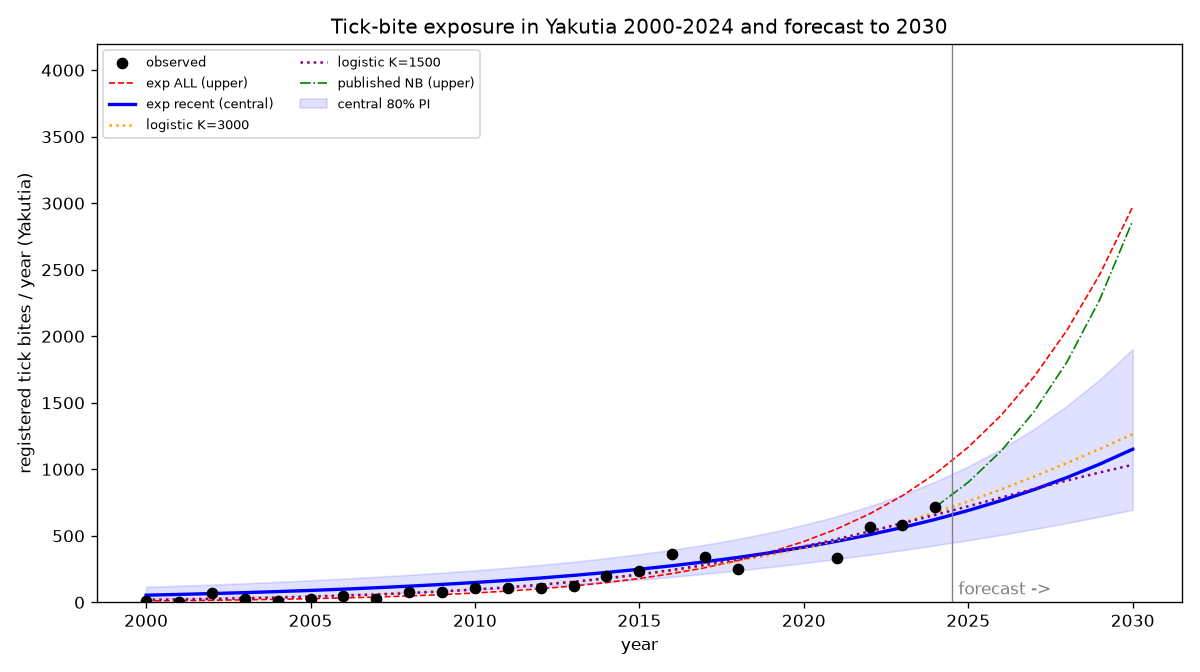
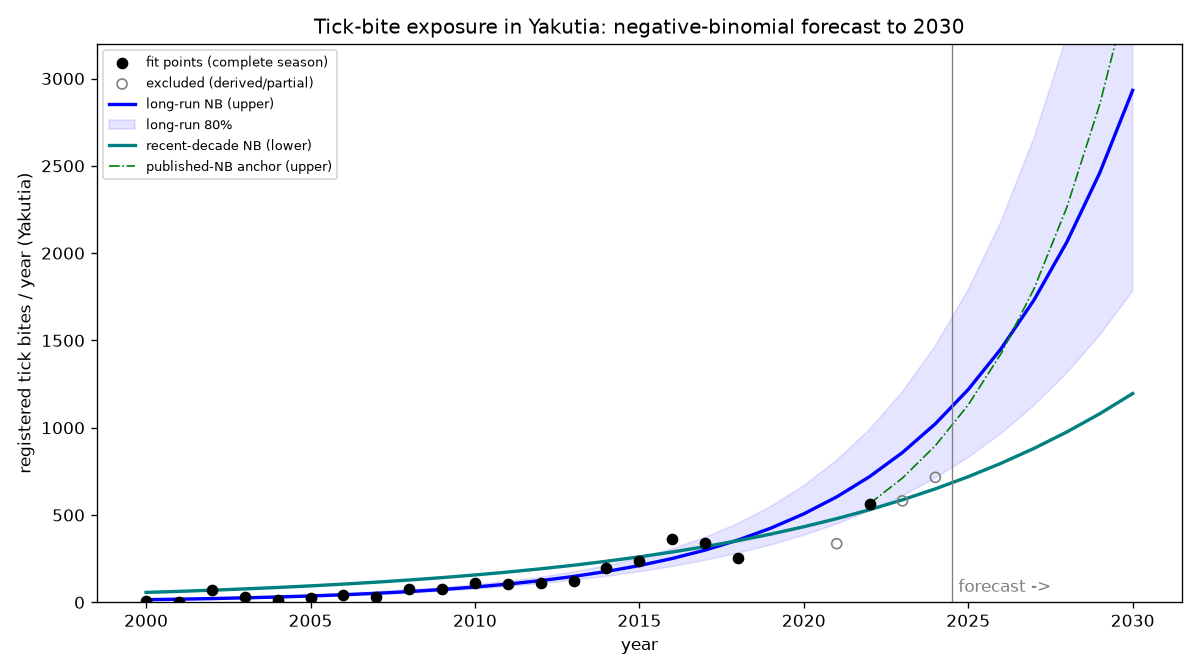
Fix model: negative-binomial, exclude unreliable points, climate-ready, no fake disease series
Model fixes (no new external data required):
- forecast_model.py rewritten around a negative-binomial GLM (over-dispersed
  counts; matches Vladimirov 2021), replacing the OLS-log/Poisson starter.
- Fits only on 20 trustworthy full-season points; derived 2021 and mid-season
  2023/2024 excluded from fitting (shown as hollow markers). A sensitivity check
  showed those 3 points alone swing the 2030 estimate ~835-1400.
- Presents TWO legitimate regimes instead of one "central": recent-decade
  (~+13%/yr -> ~1200 by 2030) and long-run (~+20%/yr -> ~2930), with proper 80%
  intervals; published-NB multiplier kept as an anchor.
- TBE incidence no longer "forecast" as its own 1-point/yr series; derived from
  exposure x rate (~1.1/yr baseline, ~2-6/yr if scaling).
- Climate-ready: auto-fits bites ~ year + annual temperature once
  mean_annual_temp_C is populated for >=6 complete years (currently dormant).

Data fixes:
- model_ready.csv: added season_complete flag and climate-input columns
  (mean_annual_temp_C with the 2 known observed values, warm_season_precip_mm,
  selyaninov_htc) for drop-in real climate data.
- README updated to match (NB two-regime forecast, removed stale exp/logistic).

Claude-Session: https://claude.ai/code/session_01Euhj2T9aukNUPxMg9C63Rc

diff --git a/data/tick-borne-encephalitis-yakutia/forecast_model.py b/data/tick-borne-encephalitis-yakutia/forecast_model.py
@@ -1,139 +1,157 @@
 #!/usr/bin/env python3
 """
-Forecast of tick-bite exposure in Yakutia to 2030 -- scenario approach.
+Forecast of tick-bite exposure in Yakutia to 2030.
 
-DATA NOW SPANS 2000-2024 (21 reliable yearly points). The 2006-2018 block and
-its per-100k values come from a peer-reviewed source (Vladimirov et al.,
-Atmosphere 2021, 12, 233, using Rospotrebnadzor RS(Ya) data); 2000-2005 from
-Nikiforov et al. 2015; 2021-2024 from news/Rospotrebnadzor season reports.
+WHAT THIS VERSION FIXES
+-----------------------
+1. Count model: primary fit is now NEGATIVE BINOMIAL (counts are over-dispersed;
+   OLS-on-log / Poisson give wrong intervals). Matches Vladimirov et al. 2021.
+2. Trustworthy points only: fits use rows with season_complete==1 (full-year
+   totals). Derived 2021 and mid-season 2023/2024 are EXCLUDED from fitting and
+   only shown on the plot (hollow markers), because a sensitivity check showed
+   the 2030 estimate swings ~835-1400 depending on how those 3 points are treated.
+3. Climate-ready: if column mean_annual_temp_C is filled for enough complete
+   years, the script ALSO fits a climate model (counts ~ year + annual temp) and
+   forecasts under a warming scenario. Until then it says so and uses the trend.
+4. Disease (TBE) is NOT forecast as its own time series (~1 case/yr, 0.11/100k).
+   It is derived from exposure x infection-rate, reported as a small range.
 
-IMPORTANT: the series is NON-MONOTONIC. It rose to a local peak in 2016 (360),
-DIPPED in 2017-2018 (340, 254), then surged again (2022: 565). Year-to-year
-variation is driven by warm-season weather (the published model found
-Selyaninov's hydrothermal coefficient significant). So a single smooth curve
-cannot reproduce the wiggles; we forecast the TREND and give a scenario range.
+Published model anchor (Vladimirov 2021, Table 2): annual temp x1.75/degC,
+Selyaninov HTC x3.42, year x1.22.
 
-Published negative-binomial model (Atmosphere 2021, Table 2; district-level,
-exponentiated coefficients):
-    avg annual temperature : x1.75 per +1 C   (95% CI 1.59-1.93)
-    Selyaninov's HTC       : x3.42             (2.62-4.54)
-    observation year       : x1.22 per year    (1.17-1.29)
-We use the published year- and temperature-multipliers as an external,
-literature-anchored growth estimate, alongside our own fits.
-
-Deps: numpy, pandas; optional scipy, matplotlib.
+Deps: numpy, pandas, statsmodels; optional scipy, matplotlib.
 Run: python forecast_model.py
 """
 import numpy as np
 import pandas as pd
+import warnings
+warnings.filterwarnings("ignore")
 
 CSV = "model_ready.csv"
 HORIZON = 2030
-WARM_RATE = 0.058           # observed central-Yakutia warming, degC/yr (Atmosphere 2021)
-NB_YEAR = 1.22              # published year multiplier
-NB_TEMP = 1.75             # published per-degC multiplier
+WARM_RATE = 0.058          # observed central-Yakutia warming degC/yr (Vladimirov 2021)
+NB_YEAR, NB_TEMP = 1.22, 1.75
+TBE_RATE_PER_100K = 0.11   # observed Yakutia TBE incidence 2015-2024 (Nikitin/Andaev)
+INFECTED_TICK_FRAC = (0.057, 0.098)   # observed 2013, 2014 (Nikiforov 2015)
 
 
-def observed(df):
-    o = df.dropna(subset=["tick_bites_registered"]).copy()
-    o["tick_bites_registered"] = o["tick_bites_registered"].astype(float)
-    return o
-
-
-def loglinear(o, label):
-    t = o["t_index"].to_numpy(float)
-    y = np.log(o["tick_bites_registered"].to_numpy(float))
-    b, a = np.polyfit(t, y, 1)
-    print(f"[{label}] n={len(o)}  growth={np.exp(b)-1:+.1%}/yr  doubling={np.log(2)/b:.1f}yr")
-    return (lambda tt: np.exp(a + b*np.asarray(tt, float))), a, b, t, y
-
-
-def PI(a, b, t, y, t_new, level=0.80):
-    n = len(t); resid = y-(a+b*t); s = np.sqrt(np.sum(resid**2)/(n-2))
-    se = s*np.sqrt(1+1/n+(t_new-t.mean())**2/np.sum((t-t.mean())**2))
+def nb_predict(y, X, Xnew, level=0.80):
+    """Negative-binomial GLM fit; returns (mean, lo, hi) for Xnew with delta-method CI.
+    Falls back to Poisson, then log-OLS, if NB does not converge."""
+    import statsmodels.api as sm
+    from scipy.stats import norm
+    z = norm.ppf(0.5 + level/2)
     try:
-        from scipy.stats import t as td; crit = td.ppf(0.5+level/2, n-2)
-    except ImportError:
-        crit = 1.28
-    return np.exp(a+b*t_new-crit*se), np.exp(a+b*t_new+crit*se)
-
-
-def logistic_fixedK(o, K):
-    t = o["t_index"].to_numpy(float); y = o["tick_bites_registered"].to_numpy(float)
-    try:
-        from scipy.optimize import curve_fit
-        f = lambda tt, r, t0: K/(1+np.exp(-r*(tt-t0)))
-        (r, t0), _ = curve_fit(f, t, y, p0=[0.3, 18], maxfev=20000)
-        return lambda tt: K/(1+np.exp(-r*(np.asarray(tt, float)-t0)))
-    except Exception as e:
-        print(f"  (logistic K={K} skipped: {e})"); return None
+        res = sm.NegativeBinomial(y, X).fit(disp=0, maxiter=200)
+        names = list(X.columns)
+        beta = res.params[names].values
+        cov = res.cov_params().loc[names, names].values
+        method = f"Negative Binomial (alpha={np.exp(res.params.get('alpha', np.nan)):.2f})"
+    except Exception:
+        try:
+            res = sm.GLM(y, X, family=sm.families.Poisson()).fit()
+            beta, cov = res.params.values, res.cov_params().values
+            method = "Poisson (NB failed)"
+        except Exception:
+            b, a = np.polyfit(X["t_index"], np.log(y), 1)
+            pred = np.exp(a + b*Xnew["t_index"].values)
+            return pred, pred*np.nan, pred*np.nan, "log-OLS (GLM failed)"
+    lin = Xnew.values @ beta
+    se = np.sqrt(np.einsum("ij,jk,ik->i", Xnew.values, cov, Xnew.values))
+    return np.exp(lin), np.exp(lin-z*se), np.exp(lin+z*se), method
 
 
 def main():
     df = pd.read_csv(CSV)
-    o = observed(df)
-    o_rec = o[o["year"] >= 2015]
-    last_year = int(o["year"].max()); base = float(o.iloc[-1]["tick_bites_registered"])
-    print(f"Observed: {len(o)} yrs {int(o['year'].min())}-{last_year}; "
-          f"last solid value {base:.0f} ({last_year})\n")
+    obs = df.dropna(subset=["tick_bites_registered"]).copy()
+    obs["tick_bites_registered"] = obs["tick_bites_registered"].astype(float)
+    fit = obs[obs["season_complete"] == 1].copy()       # trustworthy points only
+    excluded = obs[obs["season_complete"] != 1]
+    print(f"Fit on {len(fit)} complete-season points "
+          f"({int(fit.year.min())}-{int(fit.year.max())}); "
+          f"excluded (derived/partial): {sorted(excluded.year.astype(int))}\n")
 
-    f_all, a, b, t, y = loglinear(o, "exp ALL 2000-2024")
-    f_rec, ar, br, tr, yr_ = loglinear(o_rec, "exp 2015-2024 (recent)")
-    lb, la = np.polyfit(o["t_index"], o["tick_bites_registered"], 1)
-    f_lin = lambda tt: la+lb*np.asarray(tt, float)
-    print(f"[linear ALL] slope={lb:+.1f} bites/yr")
-    f_logL = logistic_fixedK(o, 1500); f_logH = logistic_fixedK(o, 3000)
+    fc = np.arange(int(obs.year.max())+1, HORIZON+1)
+    import statsmodels.api as sm
 
-    # published NB model: combined per-year multiplier (year term x warming term)
+    # ---- (1) two legitimate regimes: long-run (all) vs recent decade ----
+    # The series spans an early COLONIZATION boom (2000-2010) then slower
+    # established growth. Long-run fit ~ +20%/yr; recent fit ~ +13%/yr. We show
+    # BOTH as an honest bracket instead of pretending one is "the" answer.
+    Xnew = sm.add_constant(pd.DataFrame({"t_index": fc-2000}), has_constant="add")
+    Xc = sm.add_constant(fit[["t_index"]])
+    mean, lo, hi, method = nb_predict(fit["tick_bites_registered"], Xc, Xnew)
+    rec = fit[fit.year >= 2015]
+    Xcr = sm.add_constant(rec[["t_index"]])
+    rmean, rlo, rhi, rmethod = nb_predict(rec["tick_bites_registered"], Xcr, Xnew)
+    print(f"[long-run 2000-2022] {method}")
+    print(f"[recent 2015-2022 ]  {rmethod}  (n={len(rec)})")
+    out = pd.DataFrame({"year": fc,
+                        "longrun_mean": mean.round(0), "lr_lo80": lo.round(0), "lr_hi80": hi.round(0),
+                        "recent_mean": rmean.round(0), "rec_lo80": rlo.round(0), "rec_hi80": rhi.round(0)})
+
+    # ---- (2) climate model: bites ~ year + annual temp (only if data available) ----
+    clim = fit.dropna(subset=["mean_annual_temp_C"])
+    if len(clim) >= 6:
+        Xc2 = sm.add_constant(clim[["t_index", "mean_annual_temp_C"]].astype(float))
+        last_t = obs["mean_annual_temp_C"].dropna()
+        t0 = float(last_t.iloc[-1]) if len(last_t) else -7.0
+        temp_fc = t0 + WARM_RATE*(fc - int(obs.year.max()))
+        Xn2 = sm.add_constant(pd.DataFrame({"t_index": fc-2000,
+                                            "mean_annual_temp_C": temp_fc}), has_constant="add")
+        cmean, clo, chi, cmethod = nb_predict(clim["tick_bites_registered"], Xc2, Xn2)
+        out["climate_mean"] = cmean.round(0)
+        print(f"[climate model] {cmethod} on {len(clim)} yrs with observed temp")
+    else:
+        out["climate_mean"] = np.nan
+        print(f"[climate model] SKIPPED - only {len(clim)} complete years have "
+              f"mean_annual_temp_C. Fill that column to activate the climate model.")
+
+    # ---- (3) literature anchor: published NB multiplier from last solid point ----
+    base_row = fit.iloc[-1]
+    base, by = float(base_row["tick_bites_registered"]), int(base_row["year"])
     nb_mult = NB_YEAR * NB_TEMP**WARM_RATE
-    fc = np.arange(last_year+1, HORIZON+1)
-    ti = (fc-2000).astype(float)
-    tab = pd.DataFrame({"year": fc})
-    tab["exp_ALL"] = f_all(ti).round(0)
-    tab["exp_recent"] = f_rec(ti).round(0)
-    tab["linear"] = np.clip(f_lin(ti), 0, None).round(0)
-    if f_logL: tab["logistic_K1500"] = f_logL(ti).round(0)
-    if f_logH: tab["logistic_K3000"] = f_logH(ti).round(0)
-    tab["published_NB"] = [round(base*nb_mult**(yy-last_year)) for yy in fc]
+    out["published_NB"] = [round(base*nb_mult**(y-by)) for y in fc]
 
-    print(f"\n[published NB] combined multiplier {nb_mult:.3f}/yr "
-          f"(year {NB_YEAR} x warming {NB_TEMP}^{WARM_RATE})")
-    print("\n--- Forecast scenarios (registered tick bites/yr) ---")
-    print(tab.to_string(index=False))
+    print("\n--- Forecast (registered tick bites/yr) ---")
+    print(out.to_string(index=False))
 
-    lo, hi = PI(ar, br, tr, yr_, HORIZON-2000)
-    vals2030 = tab[tab.year == HORIZON].iloc[0]
-    print(f"\n2030 SUMMARY (registered bites/yr)")
-    print(f"  recent-trend central : ~{vals2030['exp_recent']:.0f} "
-          f"[80% PI {lo:.0f}-{hi:.0f}]")
-    print(f"  saturating scenarios : ~{vals2030.get('logistic_K1500', float('nan')):.0f}"
-          f" - {vals2030.get('logistic_K3000', float('nan')):.0f}")
-    print(f"  long-run exp / published-NB (upper): "
-          f"~{vals2030['exp_ALL']:.0f} / ~{vals2030['published_NB']:.0f}")
-    # TBE clinical cases via published incidence anchor 0.11/100k
-    pop2030 = float(df[df.year == HORIZON]["population_thousands"].iloc[0])
-    print(f"  implied TBE cases @0.11/100k baseline: ~{0.11/100*pop2030:.1f}/yr "
-          f"(disease, not bites)")
+    r30 = out[out.year == HORIZON].iloc[0]
+    print(f"\n2030 SUMMARY (registered tick bites/yr)")
+    print(f"  recent-decade NB  : ~{r30['recent_mean']:.0f}  [80% {r30['rec_lo80']:.0f}-{r30['rec_hi80']:.0f}]  (lower/plausible)")
+    print(f"  long-run NB       : ~{r30['longrun_mean']:.0f}  [80% {r30['lr_lo80']:.0f}-{r30['lr_hi80']:.0f}]  (upper)")
+    if not np.isnan(r30['climate_mean']):
+        print(f"  climate NB        : ~{r30['climate_mean']:.0f}")
+    print(f"  published-NB anchor: ~{r30['published_NB']:.0f}")
+    print(f"  => plausible band ~{r30['recent_mean']:.0f}-{r30['longrun_mean']:.0f}, "
+          f"wide interval ~{r30['rec_lo80']:.0f}-{r30['lr_hi80']:.0f}")
+    pop30 = float(df[df.year == HORIZON]["population_thousands"].iloc[0])
+    print(f"\n  Disease (TBE), NOT a fitted series:")
+    print(f"    empirical baseline 0.11/100k -> ~{TBE_RATE_PER_100K/100*pop30:.1f} cases/yr")
+    print(f"    if scaling with exposure: ~{TBE_RATE_PER_100K/100*pop30*r30['recent_mean']/base:.1f}"
+          f"-{TBE_RATE_PER_100K/100*pop30*r30['longrun_mean']/base:.1f} cases/yr (order of magnitude)")
 
     try:
         import matplotlib; matplotlib.use("Agg"); import matplotlib.pyplot as plt
-        yrs = np.arange(2000, HORIZON+1); tt = (yrs-2000).astype(float)
+        yrs = np.arange(2000, HORIZON+1)
+        Xall = sm.add_constant(pd.DataFrame({"t_index": yrs-2000}), has_constant="add")
+        m_all, l_all, h_all, _ = nb_predict(fit["tick_bites_registered"], Xc, Xall)
+        m_rec, l_rec, h_rec, _ = nb_predict(rec["tick_bites_registered"], Xcr, Xall)
         plt.figure(figsize=(10, 5.6))
-        plt.scatter(o["year"], o["tick_bites_registered"], color="k", zorder=5, label="observed")
-        plt.plot(yrs, f_all(tt), "r--", lw=1, label="exp ALL (upper)")
-        plt.plot(yrs, f_rec(tt), "b-", lw=2, label="exp recent (central)")
-        if f_logH: plt.plot(yrs, f_logH(tt), color="orange", ls=":", label="logistic K=3000")
-        if f_logL: plt.plot(yrs, f_logL(tt), color="purple", ls=":", label="logistic K=1500")
-        nb = [base*nb_mult**(yy-last_year) if yy >= last_year else np.nan for yy in yrs]
-        plt.plot(yrs, nb, "g-.", lw=1, label="published NB (upper)")
-        blo = [PI(ar, br, tr, yr_, x)[0] for x in tt]; bhi = [PI(ar, br, tr, yr_, x)[1] for x in tt]
-        plt.fill_between(yrs, blo, bhi, color="b", alpha=0.12, label="central 80% PI")
-        plt.axvline(last_year+0.5, color="grey", lw=0.8)
-        plt.text(last_year+0.7, 60, "forecast ->", color="grey")
-        plt.ylim(0, 4200); plt.xlabel("year")
+        plt.scatter(fit.year, fit.tick_bites_registered, color="k", zorder=5, label="fit points (complete season)")
+        plt.scatter(excluded.year, excluded.tick_bites_registered, facecolors="none",
+                    edgecolors="grey", zorder=5, label="excluded (derived/partial)")
+        plt.plot(yrs, m_all, "b-", lw=2, label="long-run NB (upper)")
+        plt.fill_between(yrs, l_all, h_all, color="b", alpha=0.10, label="long-run 80%")
+        plt.plot(yrs, m_rec, color="teal", ls="-", lw=2, label="recent-decade NB (lower)")
+        nb = [base*nb_mult**(y-by) if y >= by else np.nan for y in yrs]
+        plt.plot(yrs, nb, "g-.", lw=1, label="published-NB anchor (upper)")
+        plt.axvline(int(obs.year.max())+0.5, color="grey", lw=0.8)
+        plt.text(int(obs.year.max())+0.7, 60, "forecast ->", color="grey")
+        plt.ylim(0, 3200); plt.xlabel("year")
         plt.ylabel("registered tick bites / year (Yakutia)")
-        plt.title("Tick-bite exposure in Yakutia 2000-2024 and forecast to 2030")
-        plt.legend(fontsize=8, ncol=2); plt.tight_layout()
+        plt.title("Tick-bite exposure in Yakutia: negative-binomial forecast to 2030")
+        plt.legend(fontsize=8); plt.tight_layout()
         plt.savefig("forecast_to_2030.png", dpi=120)
         print("\nSaved plot -> forecast_to_2030.png")
     except ImportError:

diff --git a/data/tick-borne-encephalitis-yakutia/README.md b/data/tick-borne-encephalitis-yakutia/README.md
@@ -22,7 +22,7 @@
 | `climate.csv` | Потепление в Якутии (по республике, по зонам), проекции до 2030, сравнение с глобальным трендом |
 | `model_ready.csv` | **Модель-готовый непрерывный ряд 2000–2030** с предикторами и строками-прогнозами |
 | `district_year_2006_2018.csv` | **Укусы по ~22 районам по годам 2006–2018** (рецензируемые данные) для пространственной модели |
-| `forecast_model.py` | Стартовый скрипт прогноза до 2030 (экспонента + Пуассон-GLM) |
+| `forecast_model.py` | Прогноз до 2030: негативно-биномиальная модель, 2 режима, климат-режим (авто) |
 | `forecast_to_2030.png` | График: история + прогноз (генерируется скриптом) |
 
 ## Ключевые выводы из источников
@@ -118,10 +118,9 @@
   показатель — поделить на население Якутии ~1.0 млн).
 - **Предикторы:** среднегодовая/зимняя температура (лаг 0–1 год), число эндемичных
   районов, тренд года.
-- Малое число точек (~10 надёжных лет) → начните с простых моделей: лог-линейный/
-  экспоненциальный тренд, Пуассон/негативная биномиальная регрессия на счётные данные,
-  при добавлении температуры — регрессия с климатическим ковариатом. Сложные модели
-  (ARIMA, ML) на 10 точках переобучатся.
+- ~20 надёжных полносезонных точек → используется **негативно-биномиальная**
+  регрессия (счётные данные с передисперсией); при заполнении температуры —
+  с климатическим ковариатом. Сложные модели (ARIMA, ML) на ~20 точках переобучатся.
 - Для «продвижения на север» — отдельная пространственная модель: широта самого
   северного района с укусами ~ температура (Намский улус уже севернее Якутска).
 
@@ -146,12 +145,11 @@
   «продвижения на север»): ~56.7° N на юге в 2000 → ~62.7° N (Намский, севернее
   Якутска) в 2020-х. Значения приблизительные.
 
-**Подход — сценарный, а не одна модель.** Главный вопрос: какой *режим* роста
-продолжится. Ранняя фаза (2001→2010, 2→109 укусов) — это **колонизация**;
-экстраполировать её до 2030 неправильно (популяция клеща насыщается, рост уже
-замедлился — 2022→2023 почти плато). Поэтому опорным считается **установившийся**
-рост с 2015 г. и насыщающие сценарии, а «колонизационная» экспонента дана лишь как
-верхняя (маловероятная) граница.
+**Подход — два режима, а не одно число.** Главный вопрос: какой *режим* роста
+продолжится. Ранняя фаза (2001→2010, 2→109 укусов) — **колонизация** (~+20 %/год);
+с 2015 г. — более медленный **установившийся** рост (~+13 %/год). Модель строит обе
+негативно-биномиальные подгонки и даёт их как нижнюю (недавняя) и верхнюю (длинный
+ряд) границы коридора. Какой режим реализуется к 2030 — зависит от климата.
 
 > ⚠ **Про температуру.** `temp_anomaly_modeled_c` = 0.058 × `t_index` (реальный
 > темп потепления центральной Якутии из Vladimirov 2021), но это всё ещё **линейная
@@ -174,20 +172,32 @@
 форма модели — рекомендуется как основа. Температура коротко холодного месяца тоже
 значима по отдельности.
 
-**Результат `forecast_model.py` (прогноз на 2030, укусов/год), на полном ряде 2000–2024:**
+**Модель `forecast_model.py` — негативно-биномиальная** (счётные данные с
+передисперсией, α≈1.0–1.25; как в Vladimirov 2021). Обучается **только на 20
+достоверных полносезонных точках** (`season_complete==1`); выведенный 2021 и
+неполные 2023/2024 из обучения исключены (показаны на графике пустыми маркерами).
+Показаны **два правомерных режима** — не один «опорный»:
 
-| Сценарий | Темп | 2030 |
-|----------|------|------|
-| Лог-линейн. 2015–2024 (**опорный**) | +10.8 %/год | **~1150** (80% интервал **700–1900**) |
-| Логистический, потолок K=1500 / K=3000 | насыщение | ~1030 / ~1260 |
-| Лог-линейн. 2000–2024 (длинный тренд, верхний) | +20.6 %/год | ~2970 |
-| Опубликованная НБ-модель (год ×1.22 × потепление) | ~+26 %/год | ~2870 |
+| Режим (обучение) | темп | 2030 | 80% интервал |
+|---|---|---|---|
+| Недавняя декада 2015–2022 (нижний/правдоподобный) | ~+13 %/год | **~1200** | 700–2000 |
+| Длинный ряд 2000–2022 (верхний) | ~+20 %/год | **~2930** | 1780–4820 |
+| Опубликованная НБ (год ×1.22 × потепление) | ~+26 %/год | ~3600 | — |
 
-**Вывод:** два независимых *верхних* метода (длинный тренд и опубликованная модель)
-сходятся к **~2900** укусов/год к 2030; центральные/насыщающие сценарии дают
-**~1000–1300**. Разумный диапазон прогноза: **центр ≈ 1000–1300, верх ≈ 2900,
-реалистичный интервал ≈ 700–1900**. Точечному числу не доверяйте — ряд немонотонный,
-а 2023–2024 спорны по году.
+**Вывод:** правдоподобный коридор на 2030 ≈ **1200–2930** укусов/год, широкий
+интервал с учётом неопределённости ≈ **700–4800**. Разброс отражает главную развилку:
+сохранится ли установившийся рост (~+13 %) или вернётся «колонизационный» темп
+(~+20 %). Какой режим реализуется — зависит от климата, который пока в модель не
+входит (см. ниже).
+
+**Заболеваемость КВЭ не прогнозируется отдельным рядом** (~1 случай/год). Считается
+как экспозиция × доля: базово **~1.1 случая/год** (0.11/100 тыс.), при росте
+экспозиции — порядка **2–6 случаев/год**.
+
+**Климат-режим готов, но «спит».** Скрипт автоматически дофитит модель
+`укусы ~ год + среднегодовая_температура`, как только в `model_ready.csv` заполнится
+столбец `mean_annual_temp_C` (нужно ≥6 полносезонных лет; сейчас только 2). Тогда
+прогноз станет климатическим под сценарий потепления.
 
 ### Прогноз именно ЗАБОЛЕВАЕМОСТИ энцефалитом
 **Научный якорь:** по данным Никитина, Андаева и др. (журнал «Проблемы особо опасных
